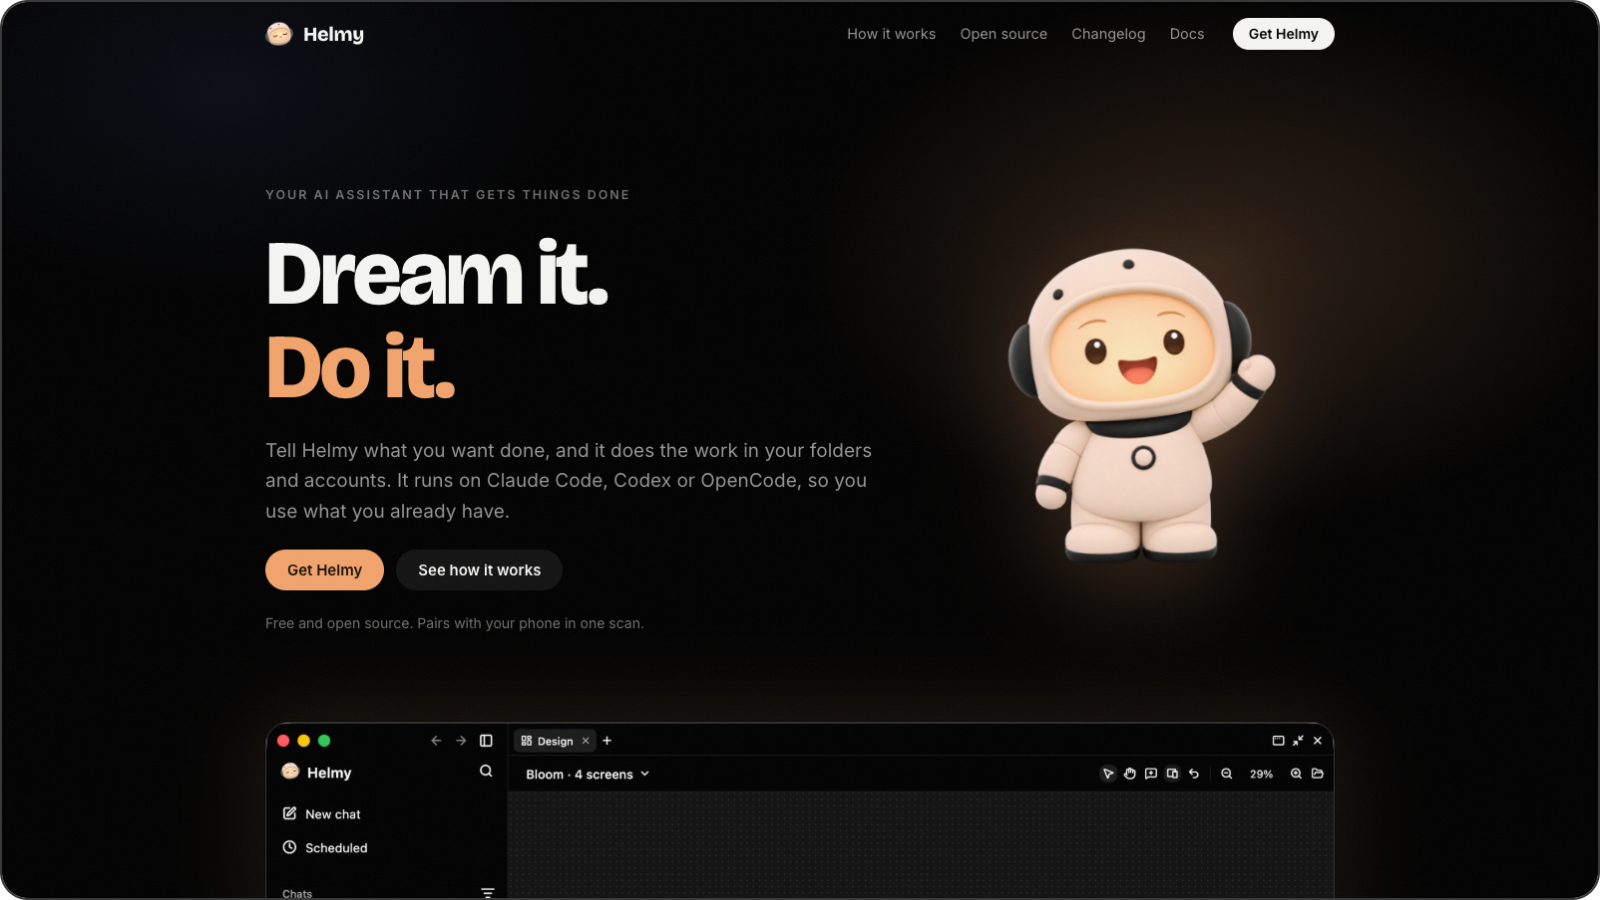
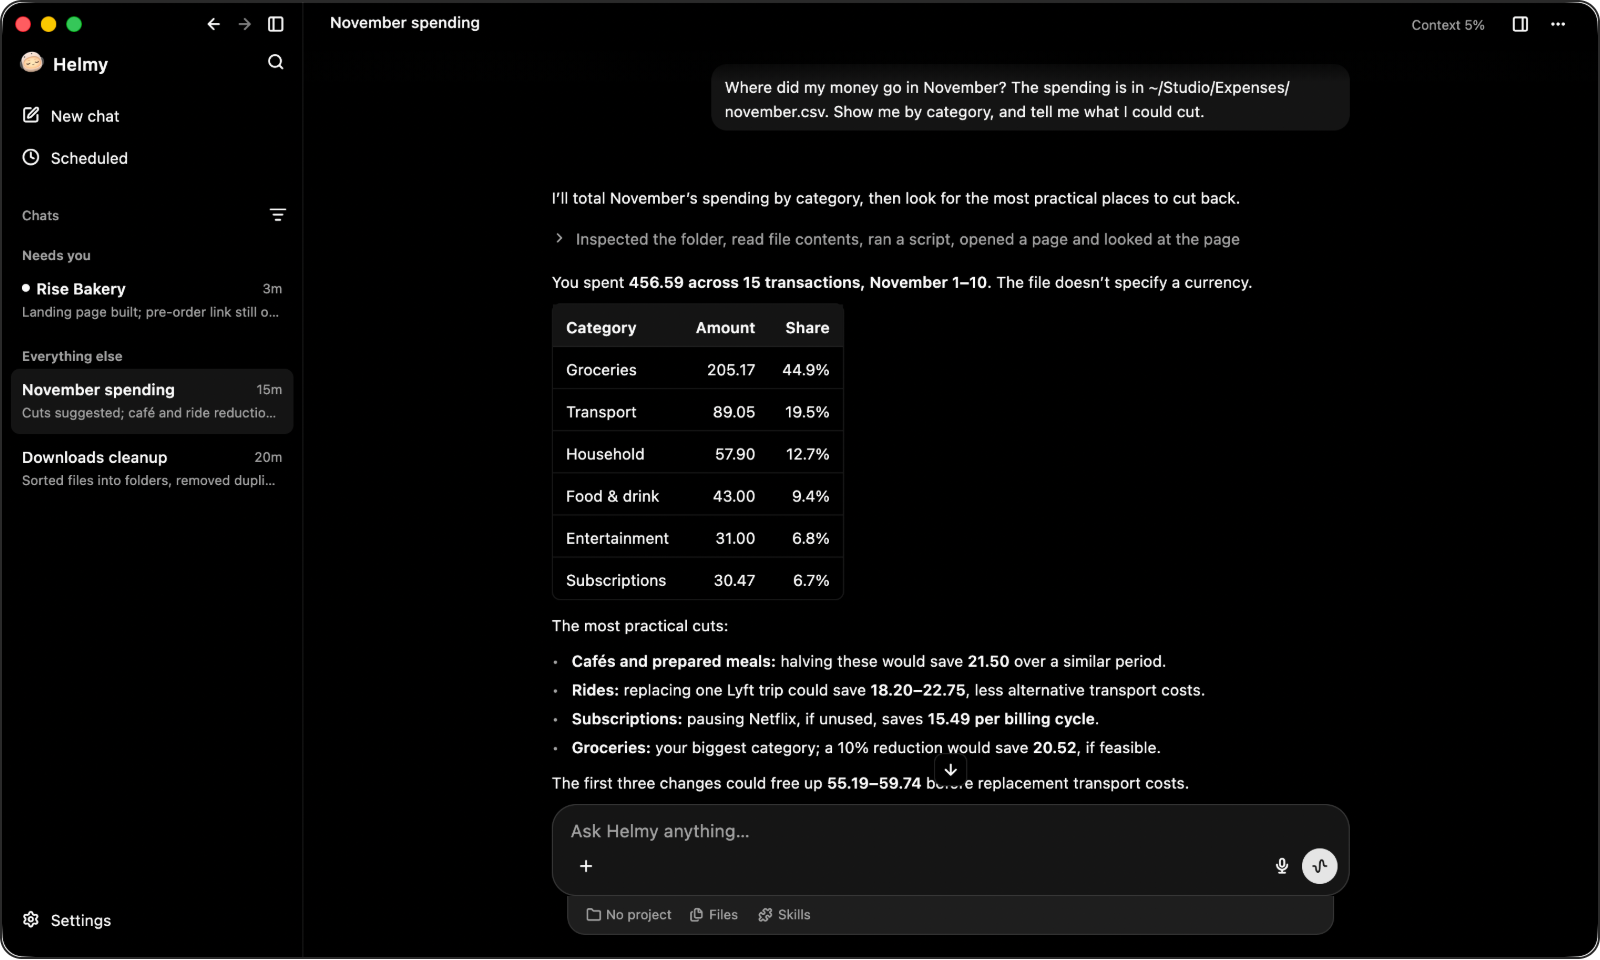
feat(site): show helmy at work, from real chats
The page showed the design canvas with an empty chat list, so the core
of Helmy (asking, the steps, the answer, an approval) never appeared.
The hero, the design section and the approval are now captures of real
runs in a sample folder, and the hero is shorter so the app shows on
the first screen. The hand-drawn approval card and the arrows between
every section are gone. The README hero is the same chat.

diff --git a/apps/site/web/styles.css b/apps/site/web/styles.css
@@ -107,19 +107,20 @@ p { margin: 0; }
 /* The opening. */
 /* Under the bar, not below it: its glow runs up behind the bar's fade, so
    there is no edge where one ends and the other begins. */
-.hero { position: relative; margin-top: -64px; padding: calc(clamp(56px, 9vw, 120px) + 64px) 0 40px; overflow: hidden; }
+.hero { position: relative; margin-top: -64px; padding: calc(clamp(40px, 5vw, 72px) + 64px) 0 40px; overflow: hidden; }
+.hero h1 { font-size: clamp(44px, 5.4vw, 76px); }
 .glow-field { position: absolute; inset: 0 -10% auto; height: 860px; pointer-events: none;
   background: radial-gradient(600px 380px at 72% 30%, var(--accent-glow), transparent 70%),
               radial-gradient(500px 300px at 20% 10%, rgba(120,140,255,0.08), transparent 70%); }
 .hero-grid { position: relative; display: grid; grid-template-columns: 1.25fr 0.75fr; gap: 40px; align-items: center; }
-.hero .copy { display: flex; flex-direction: column; gap: 22px; }
+.hero .copy { display: flex; flex-direction: column; gap: 18px; }
 .cta { display: flex; flex-wrap: wrap; gap: 12px; }
 .cta.center { justify-content: center; }
 .note { font-size: 14px; color: var(--faint); }
 .hero-art { position: relative; justify-self: center; }
-.mascot { width: clamp(220px, 26vw, 320px); height: auto; filter: drop-shadow(0 24px 48px rgba(242,163,107,0.25)); animation: float 6s ease-in-out infinite; }
+.mascot { width: clamp(160px, 17vw, 230px); height: auto; filter: drop-shadow(0 24px 48px rgba(242,163,107,0.25)); animation: float 6s ease-in-out infinite; }
 @keyframes float { 50% { transform: translateY(-12px) rotate(-1.5deg); } }
-.shot-wrap { margin-top: clamp(48px, 7vw, 88px); }
+.shot-wrap { margin-top: clamp(32px, 4vw, 48px); }
 @media (max-width: 860px) {
   .hero-grid { grid-template-columns: 1fr; }
   .hero-art { order: -1; }
@@ -143,7 +144,7 @@ p { margin: 0; }
 .works p { max-width: 640px; }
 
 /* A feature: words and a picture, side by side. */
-.feature { display: grid; grid-template-columns: 1fr 1.1fr; gap: clamp(32px, 6vw, 88px); align-items: center; padding: 40px 0; }
+.feature { display: grid; grid-template-columns: 1fr 1.1fr; gap: clamp(32px, 6vw, 88px); align-items: center; padding: 72px 0; }
 .feature.flip .feature-copy { order: 2; }
 .feature-copy { display: flex; flex-direction: column; gap: 18px; }
 .points { margin: 4px 0 0; padding: 0; list-style: none; display: grid; gap: 10px; }
@@ -160,18 +161,15 @@ p { margin: 0; }
 .pose img { position: relative; width: clamp(220px, 26vw, 320px); height: auto; }
 
 /* The marks between sections (from Funnier's kit). */
-.divider { display: grid; place-items: center; color: rgba(255,255,255,0.22); padding: 24px 0; }
-.divider svg { width: var(--w); height: auto; }
 
 /* Approvals. */
-.approvals { display: grid; grid-template-columns: 0.8fr 1.2fr; gap: clamp(32px, 6vw, 88px); align-items: center; padding: 56px 0; }
+.approvals { display: grid; grid-template-columns: 0.8fr 1.2fr; gap: clamp(32px, 6vw, 88px); align-items: center; padding: 72px 0; }
 .stat { padding: 32px; border-radius: var(--radius); background: var(--card); display: grid; gap: 12px; }
 .stat-number { font-family: var(--display); font-weight: 800; font-size: clamp(72px, 10vw, 128px); line-height: 0.9; letter-spacing: -0.05em; color: var(--accent); }
 .approvals-copy { display: flex; flex-direction: column; gap: 18px; }
-.ask-card { padding: 18px 20px; border-radius: 14px; background: #141414; display: grid; gap: 14px; max-width: 460px; }
-.ask-q { font-weight: 600; }
-.ask-buttons { display: flex; gap: 8px; }
-.ask-buttons .btn { cursor: default; }
+/* A real approval, cropped from Helmy's window. */
+.ask-shot { margin: 0; border-radius: 14px; overflow: hidden; border: 1px solid var(--line-strong); max-width: 560px; }
+.ask-shot img { display: block; width: 100%; height: auto; }
 @media (max-width: 860px) { .approvals { grid-template-columns: 1fr; } }
 
 /* Getting it. */
@@ -192,7 +190,7 @@ p { margin: 0; }
 .footer-links a:hover { color: var(--ink); }
 
 /* Open source. */
-.open { display: grid; grid-template-columns: 1.1fr 0.9fr; gap: clamp(32px, 6vw, 88px); align-items: center; padding: 40px 0; }
+.open { display: grid; grid-template-columns: 1.1fr 0.9fr; gap: clamp(32px, 6vw, 88px); align-items: center; padding: 72px 0; }
 .open-copy { display: flex; flex-direction: column; gap: 18px; }
 @media (max-width: 860px) { .open { grid-template-columns: 1fr; } }
 

diff --git a/apps/site/lib/components/sections.dart b/apps/site/lib/components/sections.dart
@@ -45,21 +45,29 @@ class Hero extends StatelessComponent {
     ]),
     div(classes: 'wrap shot-wrap reveal', [
       const MacWindow(
-        src: '/shots/canvas.jpg',
-        alt: 'Helmy on a Mac: a chat beside its Design tab, phone screens and a landing page laid out on a canvas',
+        src: '/shots/chat.jpg',
+        alt:
+            "Helmy on a Mac: asked where November's money went, it totals a spending file by "
+            'category and suggests what to cut',
+        lazy: false,
       ),
     ]),
   ]);
 }
 
-/// A Mac window round a screenshot, with its three lights.
+/// A Mac window round a screenshot, with its three lights. The screenshots are
+/// real captures of Helmy's window, chats and all (made 2026-11-11 from real
+/// runs in a sample folder).
 class MacWindow extends StatelessComponent {
-  const MacWindow({super.key, required this.src, required this.alt});
+  const MacWindow({super.key, required this.src, required this.alt, this.lazy = true});
   final String src, alt;
+
+  /// Off for the first screen, which should not wait for a scroll.
+  final bool lazy;
 
   @override
   Component build(BuildContext context) => figure(classes: 'mac', [
-    img(src: src, alt: alt, loading: MediaLoading.lazy),
+    img(src: src, alt: alt, loading: lazy ? MediaLoading.lazy : null),
   ]);
 }
 
@@ -181,12 +189,14 @@ class Approvals extends StatelessComponent {
           "Mac or can't be taken back comes to you as one plain question.",
         ),
       ]),
-      div(classes: 'ask-card reveal', [
-        p(classes: 'ask-q', [Component.text('Push the README fix to the main branch?')]),
-        div(classes: 'ask-buttons', [
-          span(classes: 'btn btn-light btn-sm', [Component.text('Go ahead')]),
-          span(classes: 'btn btn-ghost btn-sm', [Component.text("Don't")]),
-        ]),
+      figure(classes: 'ask-shot reveal', [
+        img(
+          src: '/shots/approval.jpg',
+          alt:
+              'Helmy asking: organize the downloads folder and move the three older duplicate '
+              'or superseded files to Trash? Go ahead, or Don\'t.',
+          loading: MediaLoading.lazy,
+        ),
       ]),
       p(classes: 'muted small reveal', [
         Component.text(

diff --git a/apps/site/lib/pages/home.dart b/apps/site/lib/pages/home.dart
@@ -3,7 +3,6 @@ import 'package:jaspr/jaspr.dart';
 
 import '../app.dart';
 import '../components/chrome.dart';
-import '../components/divider.dart';
 import '../components/page_title.dart';
 import '../components/sections.dart';
 
@@ -17,7 +16,6 @@ class Home extends StatelessComponent {
     main_([
       const Hero(),
       const WorksWith(),
-      const Divider(DividerShape.coil),
       const Feature(
         id: 'how',
         eyebrow: 'Helmy chooses',
@@ -36,7 +34,6 @@ class Home extends StatelessComponent {
           alt: 'Helmy holding a plug',
         ),
       ),
-      const Divider(DividerShape.wander),
       const Feature(
         flip: true,
         eyebrow: 'Design',
@@ -50,11 +47,10 @@ class Home extends StatelessComponent {
           'Leave a comment on any element and send it with your message.',
         ],
         media: MacWindow(
-          src: '/shots/comment.jpg',
-          alt: 'A comment on a design screen\'s heading, waiting in the message box',
+          src: '/shots/design.jpg',
+          alt: 'A chat asking for a bakery\'s landing page, and the page Helmy made, open beside it',
         ),
       ),
-      const Divider(DividerShape.loop),
       const Feature(
         eyebrow: 'In your hand',
         title: 'Take it with you.',
@@ -72,9 +68,7 @@ class Home extends StatelessComponent {
           alt: 'A design\'s welcome screen open on an iPhone',
         ),
       ),
-      const Divider(DividerShape.wave),
       const Approvals(),
-      const Divider(DividerShape.coil),
       const Feature(
         flip: true,
         eyebrow: 'The vault',
@@ -93,9 +87,7 @@ class Home extends StatelessComponent {
           alt: 'Helmy holding a shield',
         ),
       ),
-      const Divider(DividerShape.loop),
       const OpenSource(),
-      const Divider(DividerShape.wander),
       const Get(),
     ]),
     const Footer(),

diff --git a/README.md b/README.md
@@ -16,7 +16,7 @@
 </p>
 
 <p align="center">
-  <a href="https://github.com/mittolabs/helmy/releases/latest"><img src="assets/hero.png" alt="Helmy: dream it, do it" width="100%" /></a>
+  <a href="https://github.com/mittolabs/helmy/releases/latest"><img src="assets/hero.png" alt="Helmy on a Mac: asked where November's money went, it totals a spending file by category and suggests what to cut" width="100%" /></a>
 </p>
 
 ## Get started
